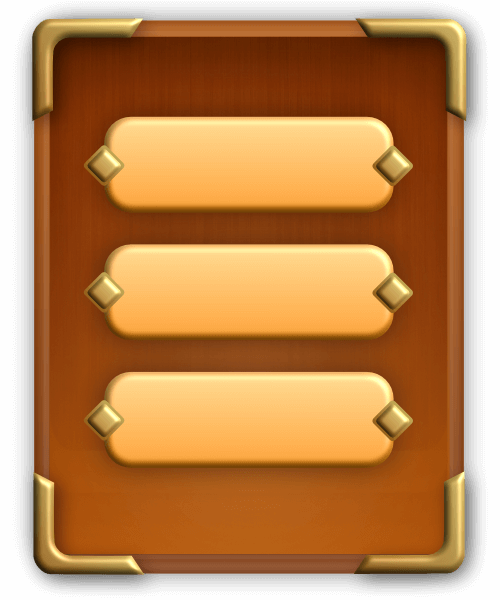
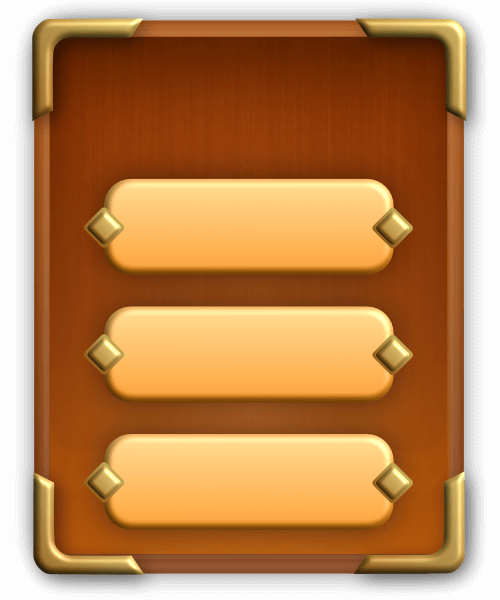
Update logic protect and prevent cheating

diff --git a/src/js/aes.js b/src/js/aes.js
@@ -1,0 +1,35 @@
+/*
+CryptoJS v3.1.2
+code.google.com/p/crypto-js
+(c) 2009-2013 by Jeff Mott. All rights reserved.
+code.google.com/p/crypto-js/wiki/License
+*/
+var CryptoJS=CryptoJS||function(u,p){var d={},l=d.lib={},s=function(){},t=l.Base={extend:function(a){s.prototype=this;var c=new s;a&&c.mixIn(a);c.hasOwnProperty("init")||(c.init=function(){c.$super.init.apply(this,arguments)});c.init.prototype=c;c.$super=this;return c},create:function(){var a=this.extend();a.init.apply(a,arguments);return a},init:function(){},mixIn:function(a){for(var c in a)a.hasOwnProperty(c)&&(this[c]=a[c]);a.hasOwnProperty("toString")&&(this.toString=a.toString)},clone:function(){return this.init.prototype.extend(this)}},
+r=l.WordArray=t.extend({init:function(a,c){a=this.words=a||[];this.sigBytes=c!=p?c:4*a.length},toString:function(a){return(a||v).stringify(this)},concat:function(a){var c=this.words,e=a.words,j=this.sigBytes;a=a.sigBytes;this.clamp();if(j%4)for(var k=0;k<a;k++)c[j+k>>>2]|=(e[k>>>2]>>>24-8*(k%4)&255)<<24-8*((j+k)%4);else if(65535<e.length)for(k=0;k<a;k+=4)c[j+k>>>2]=e[k>>>2];else c.push.apply(c,e);this.sigBytes+=a;return this},clamp:function(){var a=this.words,c=this.sigBytes;a[c>>>2]&=4294967295<<
+32-8*(c%4);a.length=u.ceil(c/4)},clone:function(){var a=t.clone.call(this);a.words=this.words.slice(0);return a},random:function(a){for(var c=[],e=0;e<a;e+=4)c.push(4294967296*u.random()|0);return new r.init(c,a)}}),w=d.enc={},v=w.Hex={stringify:function(a){var c=a.words;a=a.sigBytes;for(var e=[],j=0;j<a;j++){var k=c[j>>>2]>>>24-8*(j%4)&255;e.push((k>>>4).toString(16));e.push((k&15).toString(16))}return e.join("")},parse:function(a){for(var c=a.length,e=[],j=0;j<c;j+=2)e[j>>>3]|=parseInt(a.substr(j,
+2),16)<<24-4*(j%8);return new r.init(e,c/2)}},b=w.Latin1={stringify:function(a){var c=a.words;a=a.sigBytes;for(var e=[],j=0;j<a;j++)e.push(String.fromCharCode(c[j>>>2]>>>24-8*(j%4)&255));return e.join("")},parse:function(a){for(var c=a.length,e=[],j=0;j<c;j++)e[j>>>2]|=(a.charCodeAt(j)&255)<<24-8*(j%4);return new r.init(e,c)}},x=w.Utf8={stringify:function(a){try{return decodeURIComponent(escape(b.stringify(a)))}catch(c){throw Error("Malformed UTF-8 data");}},parse:function(a){return b.parse(unescape(encodeURIComponent(a)))}},
+q=l.BufferedBlockAlgorithm=t.extend({reset:function(){this._data=new r.init;this._nDataBytes=0},_append:function(a){"string"==typeof a&&(a=x.parse(a));this._data.concat(a);this._nDataBytes+=a.sigBytes},_process:function(a){var c=this._data,e=c.words,j=c.sigBytes,k=this.blockSize,b=j/(4*k),b=a?u.ceil(b):u.max((b|0)-this._minBufferSize,0);a=b*k;j=u.min(4*a,j);if(a){for(var q=0;q<a;q+=k)this._doProcessBlock(e,q);q=e.splice(0,a);c.sigBytes-=j}return new r.init(q,j)},clone:function(){var a=t.clone.call(this);
+a._data=this._data.clone();return a},_minBufferSize:0});l.Hasher=q.extend({cfg:t.extend(),init:function(a){this.cfg=this.cfg.extend(a);this.reset()},reset:function(){q.reset.call(this);this._doReset()},update:function(a){this._append(a);this._process();return this},finalize:function(a){a&&this._append(a);return this._doFinalize()},blockSize:16,_createHelper:function(a){return function(b,e){return(new a.init(e)).finalize(b)}},_createHmacHelper:function(a){return function(b,e){return(new n.HMAC.init(a,
+e)).finalize(b)}}});var n=d.algo={};return d}(Math);
+(function(){var u=CryptoJS,p=u.lib.WordArray;u.enc.Base64={stringify:function(d){var l=d.words,p=d.sigBytes,t=this._map;d.clamp();d=[];for(var r=0;r<p;r+=3)for(var w=(l[r>>>2]>>>24-8*(r%4)&255)<<16|(l[r+1>>>2]>>>24-8*((r+1)%4)&255)<<8|l[r+2>>>2]>>>24-8*((r+2)%4)&255,v=0;4>v&&r+0.75*v<p;v++)d.push(t.charAt(w>>>6*(3-v)&63));if(l=t.charAt(64))for(;d.length%4;)d.push(l);return d.join("")},parse:function(d){var l=d.length,s=this._map,t=s.charAt(64);t&&(t=d.indexOf(t),-1!=t&&(l=t));for(var t=[],r=0,w=0;w<
[1 lines of base64/hex data omitted]
+(function(u){function p(b,n,a,c,e,j,k){b=b+(n&a|~n&c)+e+k;return(b<<j|b>>>32-j)+n}function d(b,n,a,c,e,j,k){b=b+(n&c|a&~c)+e+k;return(b<<j|b>>>32-j)+n}function l(b,n,a,c,e,j,k){b=b+(n^a^c)+e+k;return(b<<j|b>>>32-j)+n}function s(b,n,a,c,e,j,k){b=b+(a^(n|~c))+e+k;return(b<<j|b>>>32-j)+n}for(var t=CryptoJS,r=t.lib,w=r.WordArray,v=r.Hasher,r=t.algo,b=[],x=0;64>x;x++)b[x]=4294967296*u.abs(u.sin(x+1))|0;r=r.MD5=v.extend({_doReset:function(){this._hash=new w.init([1732584193,4023233417,2562383102,271733878])},
+_doProcessBlock:function(q,n){for(var a=0;16>a;a++){var c=n+a,e=q[c];q[c]=(e<<8|e>>>24)&16711935|(e<<24|e>>>8)&4278255360}var a=this._hash.words,c=q[n+0],e=q[n+1],j=q[n+2],k=q[n+3],z=q[n+4],r=q[n+5],t=q[n+6],w=q[n+7],v=q[n+8],A=q[n+9],B=q[n+10],C=q[n+11],u=q[n+12],D=q[n+13],E=q[n+14],x=q[n+15],f=a[0],m=a[1],g=a[2],h=a[3],f=p(f,m,g,h,c,7,b[0]),h=p(h,f,m,g,e,12,b[1]),g=p(g,h,f,m,j,17,b[2]),m=p(m,g,h,f,k,22,b[3]),f=p(f,m,g,h,z,7,b[4]),h=p(h,f,m,g,r,12,b[5]),g=p(g,h,f,m,t,17,b[6]),m=p(m,g,h,f,w,22,b[7]),
+f=p(f,m,g,h,v,7,b[8]),h=p(h,f,m,g,A,12,b[9]),g=p(g,h,f,m,B,17,b[10]),m=p(m,g,h,f,C,22,b[11]),f=p(f,m,g,h,u,7,b[12]),h=p(h,f,m,g,D,12,b[13]),g=p(g,h,f,m,E,17,b[14]),m=p(m,g,h,f,x,22,b[15]),f=d(f,m,g,h,e,5,b[16]),h=d(h,f,m,g,t,9,b[17]),g=d(g,h,f,m,C,14,b[18]),m=d(m,g,h,f,c,20,b[19]),f=d(f,m,g,h,r,5,b[20]),h=d(h,f,m,g,B,9,b[21]),g=d(g,h,f,m,x,14,b[22]),m=d(m,g,h,f,z,20,b[23]),f=d(f,m,g,h,A,5,b[24]),h=d(h,f,m,g,E,9,b[25]),g=d(g,h,f,m,k,14,b[26]),m=d(m,g,h,f,v,20,b[27]),f=d(f,m,g,h,D,5,b[28]),h=d(h,f,
+m,g,j,9,b[29]),g=d(g,h,f,m,w,14,b[30]),m=d(m,g,h,f,u,20,b[31]),f=l(f,m,g,h,r,4,b[32]),h=l(h,f,m,g,v,11,b[33]),g=l(g,h,f,m,C,16,b[34]),m=l(m,g,h,f,E,23,b[35]),f=l(f,m,g,h,e,4,b[36]),h=l(h,f,m,g,z,11,b[37]),g=l(g,h,f,m,w,16,b[38]),m=l(m,g,h,f,B,23,b[39]),f=l(f,m,g,h,D,4,b[40]),h=l(h,f,m,g,c,11,b[41]),g=l(g,h,f,m,k,16,b[42]),m=l(m,g,h,f,t,23,b[43]),f=l(f,m,g,h,A,4,b[44]),h=l(h,f,m,g,u,11,b[45]),g=l(g,h,f,m,x,16,b[46]),m=l(m,g,h,f,j,23,b[47]),f=s(f,m,g,h,c,6,b[48]),h=s(h,f,m,g,w,10,b[49]),g=s(g,h,f,m,
+E,15,b[50]),m=s(m,g,h,f,r,21,b[51]),f=s(f,m,g,h,u,6,b[52]),h=s(h,f,m,g,k,10,b[53]),g=s(g,h,f,m,B,15,b[54]),m=s(m,g,h,f,e,21,b[55]),f=s(f,m,g,h,v,6,b[56]),h=s(h,f,m,g,x,10,b[57]),g=s(g,h,f,m,t,15,b[58]),m=s(m,g,h,f,D,21,b[59]),f=s(f,m,g,h,z,6,b[60]),h=s(h,f,m,g,C,10,b[61]),g=s(g,h,f,m,j,15,b[62]),m=s(m,g,h,f,A,21,b[63]);a[0]=a[0]+f|0;a[1]=a[1]+m|0;a[2]=a[2]+g|0;a[3]=a[3]+h|0},_doFinalize:function(){var b=this._data,n=b.words,a=8*this._nDataBytes,c=8*b.sigBytes;n[c>>>5]|=128<<24-c%32;var e=u.floor(a/
+4294967296);n[(c+64>>>9<<4)+15]=(e<<8|e>>>24)&16711935|(e<<24|e>>>8)&4278255360;n[(c+64>>>9<<4)+14]=(a<<8|a>>>24)&16711935|(a<<24|a>>>8)&4278255360;b.sigBytes=4*(n.length+1);this._process();b=this._hash;n=b.words;for(a=0;4>a;a++)c=n[a],n[a]=(c<<8|c>>>24)&16711935|(c<<24|c>>>8)&4278255360;return b},clone:function(){var b=v.clone.call(this);b._hash=this._hash.clone();return b}});t.MD5=v._createHelper(r);t.HmacMD5=v._createHmacHelper(r)})(Math);
+(function(){var u=CryptoJS,p=u.lib,d=p.Base,l=p.WordArray,p=u.algo,s=p.EvpKDF=d.extend({cfg:d.extend({keySize:4,hasher:p.MD5,iterations:1}),init:function(d){this.cfg=this.cfg.extend(d)},compute:function(d,r){for(var p=this.cfg,s=p.hasher.create(),b=l.create(),u=b.words,q=p.keySize,p=p.iterations;u.length<q;){n&&s.update(n);var n=s.update(d).finalize(r);s.reset();for(var a=1;a<p;a++)n=s.finalize(n),s.reset();b.concat(n)}b.sigBytes=4*q;return b}});u.EvpKDF=function(d,l,p){return s.create(p).compute(d,
+l)}})();
+CryptoJS.lib.Cipher||function(u){var p=CryptoJS,d=p.lib,l=d.Base,s=d.WordArray,t=d.BufferedBlockAlgorithm,r=p.enc.Base64,w=p.algo.EvpKDF,v=d.Cipher=t.extend({cfg:l.extend(),createEncryptor:function(e,a){return this.create(this._ENC_XFORM_MODE,e,a)},createDecryptor:function(e,a){return this.create(this._DEC_XFORM_MODE,e,a)},init:function(e,a,b){this.cfg=this.cfg.extend(b);this._xformMode=e;this._key=a;this.reset()},reset:function(){t.reset.call(this);this._doReset()},process:function(e){this._append(e);return this._process()},
+finalize:function(e){e&&this._append(e);return this._doFinalize()},keySize:4,ivSize:4,_ENC_XFORM_MODE:1,_DEC_XFORM_MODE:2,_createHelper:function(e){return{encrypt:function(b,k,d){return("string"==typeof k?c:a).encrypt(e,b,k,d)},decrypt:function(b,k,d){return("string"==typeof k?c:a).decrypt(e,b,k,d)}}}});d.StreamCipher=v.extend({_doFinalize:function(){return this._process(!0)},blockSize:1});var b=p.mode={},x=function(e,a,b){var c=this._iv;c?this._iv=u:c=this._prevBlock;for(var d=0;d<b;d++)e[a+d]^=
+c[d]},q=(d.BlockCipherMode=l.extend({createEncryptor:function(e,a){return this.Encryptor.create(e,a)},createDecryptor:function(e,a){return this.Decryptor.create(e,a)},init:function(e,a){this._cipher=e;this._iv=a}})).extend();q.Encryptor=q.extend({processBlock:function(e,a){var b=this._cipher,c=b.blockSize;x.call(this,e,a,c);b.encryptBlock(e,a);this._prevBlock=e.slice(a,a+c)}});q.Decryptor=q.extend({processBlock:function(e,a){var b=this._cipher,c=b.blockSize,d=e.slice(a,a+c);b.decryptBlock(e,a);x.call(this,
+e,a,c);this._prevBlock=d}});b=b.CBC=q;q=(p.pad={}).Pkcs7={pad:function(a,b){for(var c=4*b,c=c-a.sigBytes%c,d=c<<24|c<<16|c<<8|c,l=[],n=0;n<c;n+=4)l.push(d);c=s.create(l,c);a.concat(c)},unpad:function(a){a.sigBytes-=a.words[a.sigBytes-1>>>2]&255}};d.BlockCipher=v.extend({cfg:v.cfg.extend({mode:b,padding:q}),reset:function(){v.reset.call(this);var a=this.cfg,b=a.iv,a=a.mode;if(this._xformMode==this._ENC_XFORM_MODE)var c=a.createEncryptor;else c=a.createDecryptor,this._minBufferSize=1;this._mode=c.call(a,
+this,b&&b.words)},_doProcessBlock:function(a,b){this._mode.processBlock(a,b)},_doFinalize:function(){var a=this.cfg.padding;if(this._xformMode==this._ENC_XFORM_MODE){a.pad(this._data,this.blockSize);var b=this._process(!0)}else b=this._process(!0),a.unpad(b);return b},blockSize:4});var n=d.CipherParams=l.extend({init:function(a){this.mixIn(a)},toString:function(a){return(a||this.formatter).stringify(this)}}),b=(p.format={}).OpenSSL={stringify:function(a){var b=a.ciphertext;a=a.salt;return(a?s.create([1398893684,
+1701076831]).concat(a).concat(b):b).toString(r)},parse:function(a){a=r.parse(a);var b=a.words;if(1398893684==b[0]&&1701076831==b[1]){var c=s.create(b.slice(2,4));b.splice(0,4);a.sigBytes-=16}return n.create({ciphertext:a,salt:c})}},a=d.SerializableCipher=l.extend({cfg:l.extend({format:b}),encrypt:function(a,b,c,d){d=this.cfg.extend(d);var l=a.createEncryptor(c,d);b=l.finalize(b);l=l.cfg;return n.create({ciphertext:b,key:c,iv:l.iv,algorithm:a,mode:l.mode,padding:l.padding,blockSize:a.blockSize,formatter:d.format})},
+decrypt:function(a,b,c,d){d=this.cfg.extend(d);b=this._parse(b,d.format);return a.createDecryptor(c,d).finalize(b.ciphertext)},_parse:function(a,b){return"string"==typeof a?b.parse(a,this):a}}),p=(p.kdf={}).OpenSSL={execute:function(a,b,c,d){d||(d=s.random(8));a=w.create({keySize:b+c}).compute(a,d);c=s.create(a.words.slice(b),4*c);a.sigBytes=4*b;return n.create({key:a,iv:c,salt:d})}},c=d.PasswordBasedCipher=a.extend({cfg:a.cfg.extend({kdf:p}),encrypt:function(b,c,d,l){l=this.cfg.extend(l);d=l.kdf.execute(d,
+b.keySize,b.ivSize);l.iv=d.iv;b=a.encrypt.call(this,b,c,d.key,l);b.mixIn(d);return b},decrypt:function(b,c,d,l){l=this.cfg.extend(l);c=this._parse(c,l.format);d=l.kdf.execute(d,b.keySize,b.ivSize,c.salt);l.iv=d.iv;return a.decrypt.call(this,b,c,d.key,l)}})}();
+(function(){for(var u=CryptoJS,p=u.lib.BlockCipher,d=u.algo,l=[],s=[],t=[],r=[],w=[],v=[],b=[],x=[],q=[],n=[],a=[],c=0;256>c;c++)a[c]=128>c?c<<1:c<<1^283;for(var e=0,j=0,c=0;256>c;c++){var k=j^j<<1^j<<2^j<<3^j<<4,k=k>>>8^k&255^99;l[e]=k;s[k]=e;var z=a[e],F=a[z],G=a[F],y=257*a[k]^16843008*k;t[e]=y<<24|y>>>8;r[e]=y<<16|y>>>16;w[e]=y<<8|y>>>24;v[e]=y;y=16843009*G^65537*F^257*z^16843008*e;b[k]=y<<24|y>>>8;x[k]=y<<16|y>>>16;q[k]=y<<8|y>>>24;n[k]=y;e?(e=z^a[a[a[G^z]]],j^=a[a[j]]):e=j=1}var H=[0,1,2,4,8,
+16,32,64,128,27,54],d=d.AES=p.extend({_doReset:function(){for(var a=this._key,c=a.words,d=a.sigBytes/4,a=4*((this._nRounds=d+6)+1),e=this._keySchedule=[],j=0;j<a;j++)if(j<d)e[j]=c[j];else{var k=e[j-1];j%d?6<d&&4==j%d&&(k=l[k>>>24]<<24|l[k>>>16&255]<<16|l[k>>>8&255]<<8|l[k&255]):(k=k<<8|k>>>24,k=l[k>>>24]<<24|l[k>>>16&255]<<16|l[k>>>8&255]<<8|l[k&255],k^=H[j/d|0]<<24);e[j]=e[j-d]^k}c=this._invKeySchedule=[];for(d=0;d<a;d++)j=a-d,k=d%4?e[j]:e[j-4],c[d]=4>d||4>=j?k:b[l[k>>>24]]^x[l[k>>>16&255]]^q[l[k>>>
+8&255]]^n[l[k&255]]},encryptBlock:function(a,b){this._doCryptBlock(a,b,this._keySchedule,t,r,w,v,l)},decryptBlock:function(a,c){var d=a[c+1];a[c+1]=a[c+3];a[c+3]=d;this._doCryptBlock(a,c,this._invKeySchedule,b,x,q,n,s);d=a[c+1];a[c+1]=a[c+3];a[c+3]=d},_doCryptBlock:function(a,b,c,d,e,j,l,f){for(var m=this._nRounds,g=a[b]^c[0],h=a[b+1]^c[1],k=a[b+2]^c[2],n=a[b+3]^c[3],p=4,r=1;r<m;r++)var q=d[g>>>24]^e[h>>>16&255]^j[k>>>8&255]^l[n&255]^c[p++],s=d[h>>>24]^e[k>>>16&255]^j[n>>>8&255]^l[g&255]^c[p++],t=
+d[k>>>24]^e[n>>>16&255]^j[g>>>8&255]^l[h&255]^c[p++],n=d[n>>>24]^e[g>>>16&255]^j[h>>>8&255]^l[k&255]^c[p++],g=q,h=s,k=t;q=(f[g>>>24]<<24|f[h>>>16&255]<<16|f[k>>>8&255]<<8|f[n&255])^c[p++];s=(f[h>>>24]<<24|f[k>>>16&255]<<16|f[n>>>8&255]<<8|f[g&255])^c[p++];t=(f[k>>>24]<<24|f[n>>>16&255]<<16|f[g>>>8&255]<<8|f[h&255])^c[p++];n=(f[n>>>24]<<24|f[g>>>16&255]<<16|f[h>>>8&255]<<8|f[k&255])^c[p++];a[b]=q;a[b+1]=s;a[b+2]=t;a[b+3]=n},keySize:8});u.AES=p._createHelper(d)})();

diff --git a/src/js/optimized.js b/src/js/optimized.js
@@ -111,11 +111,12 @@ let round1IndicatorContent = document.getElementById("play-times");
 let round2Indicator = document.getElementById("round2-content");
 let round2IndicatorContent = document.getElementById("round2-play-times");
 
-function playGame(){
+playGame = ()=>{
     var menu = byID("game-menu");
     var board = byID("game-board");
 
     menu.className += " hide";
+    magicKey();
     createBoard();
     board.className += " show";
     clickOnPlay = 1;
@@ -123,6 +124,37 @@ function playGame(){
     setTimeout(function(){
         menu.style.zIndex = -1000;
     },200);
+}
+
+magicKey = ()=>{
+    var url_string = window.location.href;
+    var url = new URL(url_string);
+    var keyCode = url.searchParams.get("code");
+    if (keyCode){
+        if(!window.localStorage.getItem(keyCode)){
+            let decrypt = CryptoJS.AES.decrypt(keyCode,"LUPUCOFFE");
+            let string = decrypt.toString(CryptoJS.enc.Utf8);
+            if(string.includes("add 1 play")){window.localStorage.setItem('plays',1); round = 1; openTimes = 6; }
+            else if (string.includes("add 2 play")){window.localStorage.setItem('plays', 2); round = 1; openTimes = 6;}
+            else if (string.includes("add 3 play")){window.localStorage.setItem('plays', 3); round = 1; openTimes = 6;}
+            else if (string.includes("add 4 play")){window.localStorage.setItem('plays', 4); round = 1; openTimes = 6;}
+            else if (string.includes("add 5 play")){window.localStorage.setItem('plays', 5); round = 1; openTimes = 6;}
+            else if (string.includes("add 6 play")){window.localStorage.setItem('plays', 6); round = 1; openTimes = 6;}
+            else if (string.includes("add 7 play")){window.localStorage.setItem('plays', 7); round = 1; openTimes = 6;}
+            else if (string.includes("add 8 play")){window.localStorage.setItem('plays', 8); round = 1; openTimes = 6;}
+            else if (string.includes("add 9 play")){window.localStorage.setItem('plays', 9); round = 1; openTimes = 6;}
+            else if (string.includes("add 10 play")){window.localStorage.setItem('plays', 10); round = 1; openTimes = 6;}
+            else if (string.includes("add 11 play")){window.localStorage.setItem('plays', 11); round = 1; openTimes = 6;}
+            else if (string.includes("add 12 play")){window.localStorage.setItem('plays', 12); round = 1; openTimes = 6;}
+            else if (string.includes("add 13 play")){window.localStorage.setItem('plays', 13); round = 1; openTimes = 6;}
+            else if (string.includes("add 14 play")){window.localStorage.setItem('plays', 14); round = 1; openTimes = 6;}
+            else if (string.includes("add 15 play")){window.localStorage.setItem('plays', 15); round = 1; openTimes = 6;}
+            else if (string.includes("add 16 play")){window.localStorage.setItem('plays', 16); round = 1; openTimes = 6;}
+            else if (string.includes("add 17 play")){window.localStorage.setItem('plays', 17); round = 1; openTimes = 6;}
+            else if (string.includes("add 18 play")){window.localStorage.setItem('plays', 18); round = 1; openTimes = 6;}
+            window.localStorage.setItem(keyCode,false);
+        }
+    } 
 }
 
 redirectToFacebook = () =>{

diff --git a/index.html b/index.html
@@ -78,8 +78,7 @@
                         <div class="menu-background">
                             <img src="src/images/optimized/tinified/menu-background.png" alt="lupu coffee"/>
                         </div>
-                        <!-- <p>Uống cùng LUPU nhận ngay tiền mặt lên đến</p>
-                        <p>10.000.000 VNĐ</p> -->
+                        <p class="slogan">Uống cùng LUPU - lật kẹo trúng tiền mặt. <br> Tặng ngay 10k + giảm 50% khi order.</p>
                         <div class="menu-button" onclick="playGame()"><img src="src/images/optimized/tinified/play-button.png"/></div>
                         <div class="menu-button"><img src="src/images/optimized/tinified/term-button.png"/></div>
                         <div class="menu-button"><img src="src/images/optimized/tinified/policy-button.png"/></div>
@@ -148,6 +147,7 @@
 
             gtag('config', 'G-4FERV1ECVJ');
         </script>
+        <script src="src/js/aes.js"></script>
         <script src="src/js/code.js"></script>
         <script src="src/js/optimized.js"></script>
     </body>

diff --git a/src/css/menu.css b/src/css/menu.css
@@ -39,16 +39,16 @@
 }
 
 .menu-button:nth-child(2){
-    margin-top: 22%;
+    margin-top: 34%;
 }
 
 .menu-button > img{
     max-width: 100%;
 }
 
-.game-menu > p{
+/* .game-menu > p{
     margin: 0
-}
+} */
 /* 
 .game-menu > p:nth-of-type(1){
     font-size: 1em;
@@ -64,5 +64,5 @@
 .copyright{
     color: rgb(255, 231, 199);
     font-size: 0.8em;
-    margin-top: 40% !important;
+    margin-top: 20% !important;
 }

diff --git a/src/js/code.js b/src/js/code.js
@@ -747,6 +747,10 @@ loadResource(0);
 //     }
 // });
 
+testCode = (string)=>{
+ alert (CryptoJS.AES.encrypt(string,"LUPUCOFFE"));
+}
+
 window.addEventListener("load", event => {
     var localStorage = window.localStorage;
     const plays = localStorage.getItem('plays');
@@ -760,6 +764,5 @@ window.addEventListener("load", event => {
     if(!plays){
         localStorage.setItem('plays',1);
     }
-
 });
 

diff --git a/src/css/main.css b/src/css/main.css
@@ -239,5 +239,14 @@ body{
     text-align: center;
 } */
 
+.slogan{
+    color:burlywood;
+    font-size: 0.85em;
+    margin-top: 3em;
+    margin-bottom: 1.95em;
+    padding: 0 3em;
+    text-align: center;
+    z-index: 1;
+}
 
 
